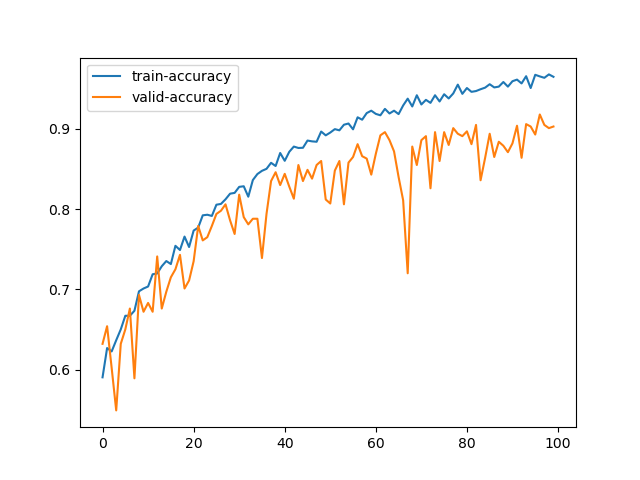
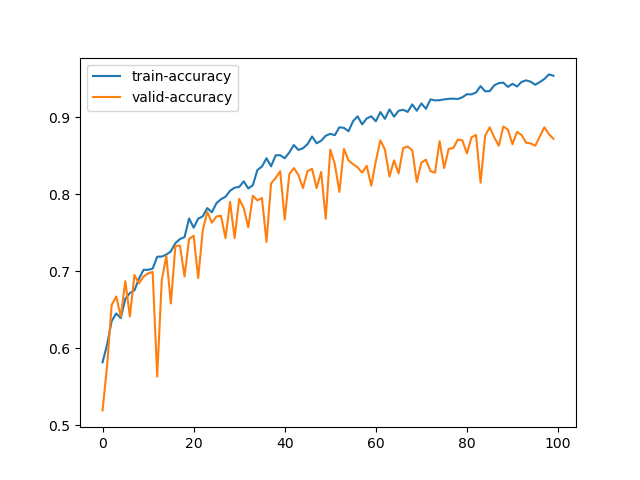
example_v2

diff --git a/models/model.py b/models/model.py
@@ -21,48 +21,53 @@ class MyResnet18(nn.Module):
         super(MyResnet18, self).__init__()
         # 拿掉model的最後三層(layer4、average pooling、fully connected)
         self.resnet_layer = nn.Sequential(*list(model.children())[:-3])
+
+        ################### you need to complete the layer4 of resnet18 here ###################
+        # self.conv1 = nn.Sequential(
+        #     nn.Conv2d(in_channels=256, out_channels=512, kernel_size=3, stride=2, padding=1),
+        #     nn.BatchNorm2d(512),
+        #     nn.ReLU(inplace=True)
+        # )
+        # self.conv2 = nn.Sequential(
+        #     nn.Conv2d(in_channels=512, out_channels=512, kernel_size=3, stride=1, padding=1),
+        #     nn.BatchNorm2d(512)
+        # )
+        # self.downsample = nn.Sequential(
+        #     nn.Conv2d(in_channels=256, out_channels=512, kernel_size=1, stride=2),
+        #     nn.BatchNorm2d(512)
+        # )
+        # self.conv3 = nn.Sequential(
+        #     nn.Conv2d(in_channels=512, out_channels=512, kernel_size=3, stride=1, padding=1),
+        #     nn.BatchNorm2d(512),
+        #     nn.ReLU(inplace=True)
+        # )
+        # self.conv4 = nn.Sequential(
+        #     nn.Conv2d(in_channels=512, out_channels=512, kernel_size=3, stride=1, padding=1),
+        #     nn.BatchNorm2d(512),
+        # )
         # ==================================================================================== #
-        self.conv1 = nn.Sequential(
-            nn.Conv2d(in_channels=256, out_channels=512, kernel_size=3, stride=2, padding=1),
-            nn.BatchNorm2d(512),
-            nn.ReLU(inplace=True)
-        )
-        self.conv2 = nn.Sequential(
-            nn.Conv2d(in_channels=512, out_channels=512, kernel_size=3, stride=1, padding=1),
-            nn.BatchNorm2d(512)
-        )
-        self.downsample = nn.Sequential(
-            nn.Conv2d(in_channels=256, out_channels=512, kernel_size=1, stride=2),
-            nn.BatchNorm2d(512)
-        )
-        self.conv3 = nn.Sequential(
-            nn.Conv2d(in_channels=512, out_channels=512, kernel_size=3, stride=1, padding=1),
-            nn.BatchNorm2d(512),
-            nn.ReLU(inplace=True)
-        )
-        self.conv4 = nn.Sequential(
-            nn.Conv2d(in_channels=512, out_channels=512, kernel_size=3, stride=1, padding=1),
-            nn.BatchNorm2d(512),
-        )
-        # ==================================================================================== #
+        
         self.avgpool = nn.AdaptiveAvgPool2d((1, 1))
-        self.fc = nn.Linear(512, 2)
+        self.fc = nn.Linear(256, 2)
 
     def forward(self, x):
         x = self.resnet_layer(x)
 
-        out = self.conv1(x)
-        out = self.conv2(out)
-        identity = self.downsample(x)
-        out += identity
-        out = nn.ReLU()(out)
-        identity = out
-        out = self.conv3(out)
-        out = self.conv4(out)
-        out += identity
-        out = nn.ReLU()(out)
+        
+        ################### you need to complete the layer4 of resnet18 here ###################
+        # out = self.conv1(x)
+        # out = self.conv2(out)
+        # identity = self.downsample(x)
+        # out += identity
+        # out = nn.ReLU()(out)
+        # identity = out
+        # out = self.conv3(out)
+        # out = self.conv4(out)
+        # out += identity
+        # out = nn.ReLU()(out)
+        # ==================================================================================== #
 
-        out = self.avgpool(out)
+        out = self.avgpool(x)   # if use operation above change 'x' to 'out'
         out = torch.flatten(out, 1)
         out = self.fc (out)
 

diff --git a/train.py b/train.py
@@ -26,7 +26,9 @@ train_loader, valid_loader = make_train_dataloader(train_data_path)
 
 # set model, we use Resnet18
 resnet = resnet18(pretrained=False)
+# print(resnet)
 model = MyResnet18(resnet)
+# print(model)
 model = model.to(device)
 
 # set optimizer and loss function
@@ -50,6 +52,7 @@ for epoch in range(epochs):
     model.train()
     for data, target in tqdm(train_loader, desc="Training"):
         data, target = data.to(device), target.to(device)
+        print(target)
 
         # forward + backward + optimize
         output  = model(data)
